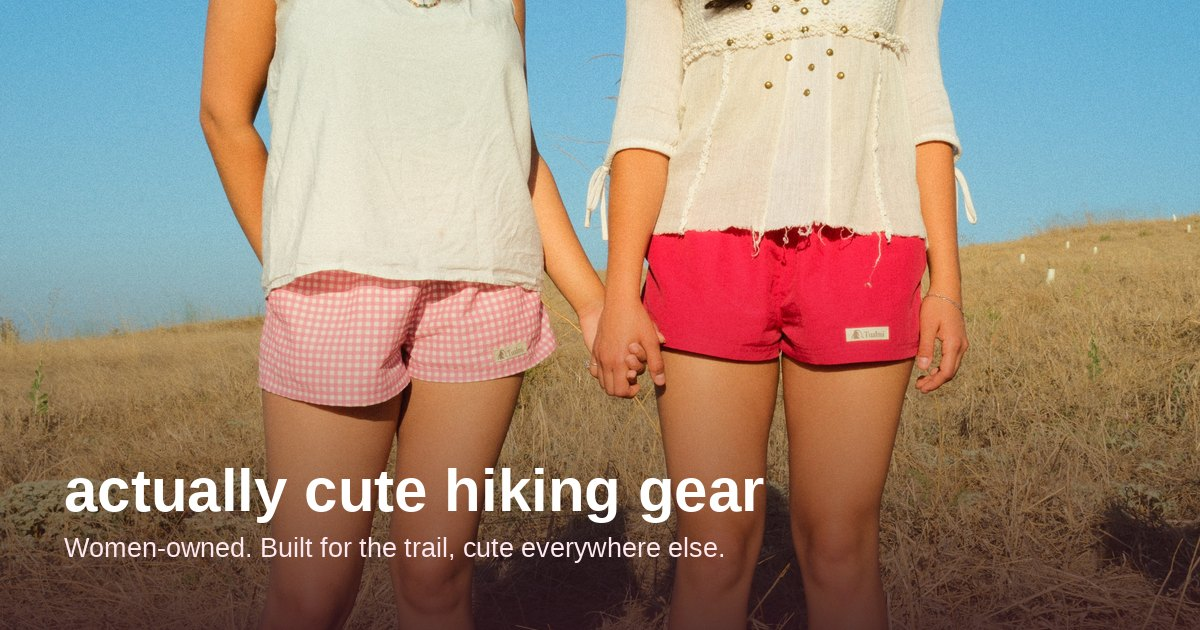
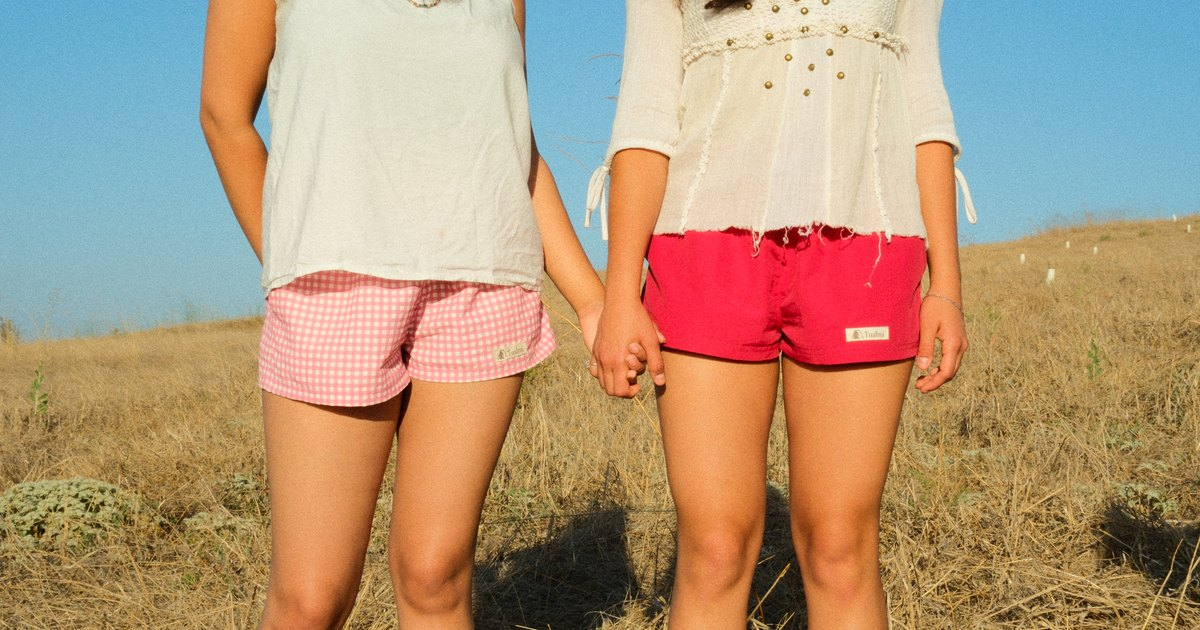
photos

diff --git a/src/app/in-the-wild/page.tsx b/src/app/in-the-wild/page.tsx
@@ -157,14 +157,18 @@ export default function InTheWildPage() {
         @media (max-width: 640px) { .wild-map { max-width: none; } }
         .wild-state { fill: #F5E3EA; stroke: #EACBD8; stroke-width: 1; }
         .wild-state[data-shipped='true'] { fill: #EFCBDA; }
-        /* Smaller than a state-level pin would be: there are two dozen of
-           these and several sit close together, so a fat dot turns the Bay
-           Area into one blob. */
-        .wild-pin { fill: ${maroon}; stroke: #fff; stroke-width: 1.6; r: 6; }
-        /* The map scales to about a third of its drawn size on a phone, which
-           would take a 6px pin to 2px. CSS geometry properties let the dot
-           grow back without redrawing anything. */
-        @media (max-width: 640px) { .wild-pin { r: 11; stroke-width: 2.6; } }
+        /* Colour only. Pin SIZE lives on the elements themselves as real SVG
+           r / stroke-width attributes — see the note above the two <g> groups
+           in the markup for why it can't live here. */
+        .wild-pin { fill: ${maroon}; stroke: #fff; }
+        /* Which of the two pin sets is drawn. Phone gets the larger one
+           because the map renders at roughly a third of its desktop size
+           there, and a 6-unit dot lands at about 2px. */
+        .wild-pins--phone { display: none; }
+        @media (max-width: 640px) {
+          .wild-pins--wide { display: none; }
+          .wild-pins--phone { display: inline; }
+        }
 
         .wild-statelist {
           display: flex;
@@ -264,15 +268,53 @@ export default function InTheWildPage() {
             ))}
             {/* Pins last so they sit above every outline. No <title>: the
                 tooltip would name the town, and the point of an unlabelled dot
-                is that it doesn't. */}
-            {pins.map((p) => (
-              <circle
-                key={`${p.state}-${Math.round(p.x)}-${Math.round(p.y)}`}
-                className="wild-pin"
-                cx={p.x}
-                cy={p.y}
-              />
-            ))}
+                is that it doesn't.
+
+                ── WHY THE PINS ARE DRAWN TWICE ─────────────────────────────
+                The radius used to come from CSS alone — `.wild-pin { r: 6 }`,
+                with `r: 11` in a phone media query — and these circles carried
+                no `r` attribute at all. A circle whose radius resolves to
+                nothing is a circle of radius ZERO, so the moment a browser
+                declined that declaration the pins didn't shrink, they vanished
+                outright, leaving a map of tinted states and nothing on it.
+                That's what was happening on iOS.
+
+                The declaration was `r: 6` — no unit. Chromium accepts that;
+                per spec a non-zero <length> requires one, and WebKit is strict
+                about it. Adding "px" would fix the immediate symptom but keeps
+                the fragile part: the size still lives in a CSS property that
+                only some engines honour, and the failure mode is still total
+                invisibility rather than a wrong size.
+
+                So the size is back on the elements as plain SVG attributes,
+                which every renderer has understood forever, and the phone/wide
+                switch is a `display` toggle between two groups — also
+                universally supported. Sixty-odd extra circles in the DOM is a
+                cheap price for a map that cannot silently empty itself. */}
+            <g className="wild-pins wild-pins--wide">
+              {pins.map((p) => (
+                <circle
+                  key={`${p.state}-${Math.round(p.x)}-${Math.round(p.y)}`}
+                  className="wild-pin"
+                  cx={p.x}
+                  cy={p.y}
+                  r={6}
+                  strokeWidth={1.6}
+                />
+              ))}
+            </g>
+            <g className="wild-pins wild-pins--phone">
+              {pins.map((p) => (
+                <circle
+                  key={`${p.state}-${Math.round(p.x)}-${Math.round(p.y)}`}
+                  className="wild-pin"
+                  cx={p.x}
+                  cy={p.y}
+                  r={11}
+                  strokeWidth={2.6}
+                />
+              ))}
+            </g>
           </svg>
 
           {/* The same information as text — a screen reader shouldn't have to

diff --git a/src/app/layout.tsx b/src/app/layout.tsx
@@ -32,8 +32,14 @@ export const metadata: Metadata = {
     description:
       'Hiking apparel made by women, for women — the fits, prints, and colorways the legacy brands never made.',
     // Default link preview for every page that doesn't set its own.
-    // 1200x630, generated by scripts/make-og-images.py.
-    images: [{ url: '/og/home-og.jpg', width: 1200, height: 630, alt: 'Tualmi — actually cute hiking apparel' }],
+    //
+    // 1200x630, generated by scripts/make-og-images.py from
+    // public/images-2/shorts-holdinghands.jpg. To change the picture, swap the
+    // source photo in that script — don't point this at a file in images-2
+    // directly. The source here is 6240x4160 and 12.5 MB: past Facebook's 8 MB
+    // ceiling, and slow enough that iMessage, WhatsApp and Slack give up before
+    // the image finishes downloading, so the link previews with no image at all.
+    images: [{ url: '/og/home-og.jpg', width: 1200, height: 630, alt: 'Two women in Tualmi shorts holding hands on a golden hillside' }],
   },
   twitter: {
     card: 'summary_large_image',

diff --git a/scripts/make-og-images.py b/scripts/make-og-images.py
@@ -120,8 +120,38 @@ def product_card(photo_path, title, subtitle, out_name):
     print(f"  {out_name}  {os.path.getsize(path)//1024} KB")
 
 
+def hero_plain(photo_path, out_name):
+    """
+    Full-bleed landscape photo, nothing composited over it.
+
+    Used for the homepage preview. The card treatment below (hero_card) put
+    "actually cute hiking gear" over a dark scrim; this drops both. The reason
+    to prefer it: every platform that renders a link preview already draws the
+    page title and description right underneath the image, so baked-in text is
+    the same words twice — and it's the copy that gets cropped or covered when
+    a platform decides to letterbox or overlay the thumbnail.
+
+    Still generated rather than pointing the meta tag at the source photo:
+    shorts-holdinghands.jpg is 6240x4160 and 12.5 MB. Facebook rejects anything
+    over 8 MB outright, and iMessage / WhatsApp / Slack give up on large files
+    before they finish downloading, so a raw link would often preview with no
+    image at all. 1200x630 at ~175 KB always renders.
+    """
+    photo = Image.open(photo_path).convert("RGB")
+    canvas = cover(photo, W, H)
+    path = os.path.join(OUT, out_name)
+    canvas.save(path, "JPEG", quality=86, optimize=True, progressive=True)
+    print(f"  {out_name}  {os.path.getsize(path)//1024} KB  (plain, no overlay)")
+
+
 def hero_card(photo_path, title, subtitle, out_name):
-    """Full-bleed landscape photo with a dark scrim and text over it."""
+    """
+    Full-bleed landscape photo with a dark scrim and text over it.
+
+    No longer used for the homepage — see hero_plain. Kept because it's the
+    right treatment if you ever need a preview to carry a message the page
+    title doesn't (a sale, a launch date, a campaign).
+    """
     photo = Image.open(photo_path).convert("RGB")
     canvas = cover(photo, W, H)
 
@@ -161,10 +191,11 @@ if __name__ == "__main__":
     img = lambda p: os.path.join(ROOT, "public", "images-2", p)
     print("Writing OG images to public/og/ ...")
 
-    hero_card(
+    # Homepage: the photo on its own. The title and description that used to be
+    # burned into it are already in the metadata, so every platform renders them
+    # below the image anyway.
+    hero_plain(
         img("shorts-holdinghands.jpg"),
-        "actually cute hiking gear",
-        "Women-owned. Built for the trail, cute everywhere else.",
         "home-og.jpg",
     )
 
